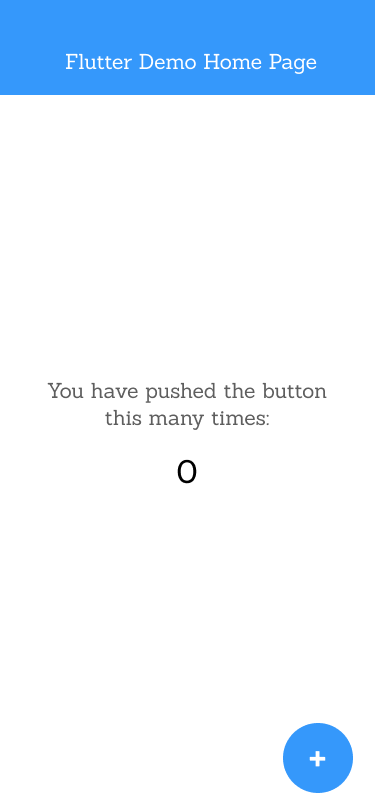
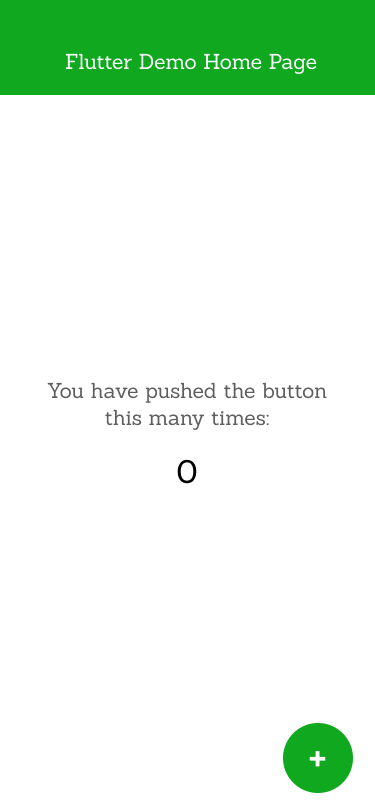
Auto-generated commit by Parabeac Cloud

Changed region(s): [[0.0, 0.0, 1.0, 0.1232], [0.7333, 0.8929, 0.9387, 0.9852]]

diff --git a/lib/views/page_1/my_app_screen.g.dart b/lib/views/page_1/my_app_screen.g.dart
@@ -39,12 +39,12 @@ class _MyAppScreen extends State<MyAppScreen> {
                   right: 0,
                   top: 0,
                   height: 95.0,
-                  child: Image.asset(
-                    'assets/images/background.png',
-                    package: 'hello_world',
+                  child: Container(
                     height: 95.0,
                     width: MediaQuery.of(context).size.width * 1.0,
-                    fit: BoxFit.fitWidth,
+                    decoration: BoxDecoration(
+                      color: Color(0xff10a81f),
+                    ),
                   ),
                 ),
                 Positioned(

diff --git a/lib/theme/hello_world_theme.g.dart b/lib/theme/hello_world_theme.g.dart
@@ -1,0 +1,15 @@
+// *********************************************************************************
+// PARABEAC-GENERATED CODE. DO NOT MODIFY.
+// 
+// FOR MORE INFORMATION ON HOW TO USE PARABEAC, PLEASE VISIT docs.parabeac.com
+// *********************************************************************************
+    
+
+import 'package:flutter/material.dart';import 'package:hello_world/theme/hello_world_colors.g.dart';
+
+class HelloWorldTheme {
+
+static const ColorScheme light = ColorScheme.light(secondary: HelloWorldColors.lightSecondary);
+
+static  ThemeData themeDataLight = ThemeData( colorScheme: light,);
+}

diff --git a/lib/theme/hello_world_colors.g.dart b/lib/theme/hello_world_colors.g.dart
@@ -1,0 +1,12 @@
+// *********************************************************************************
+// PARABEAC-GENERATED CODE. DO NOT MODIFY.
+// 
+// FOR MORE INFORMATION ON HOW TO USE PARABEAC, PLEASE VISIT docs.parabeac.com
+// *********************************************************************************
+    
+
+import 'package:flutter/material.dart';
+class HelloWorldColors {
+
+static const Color lightSecondary = Color(0xff10a81f);
+}
